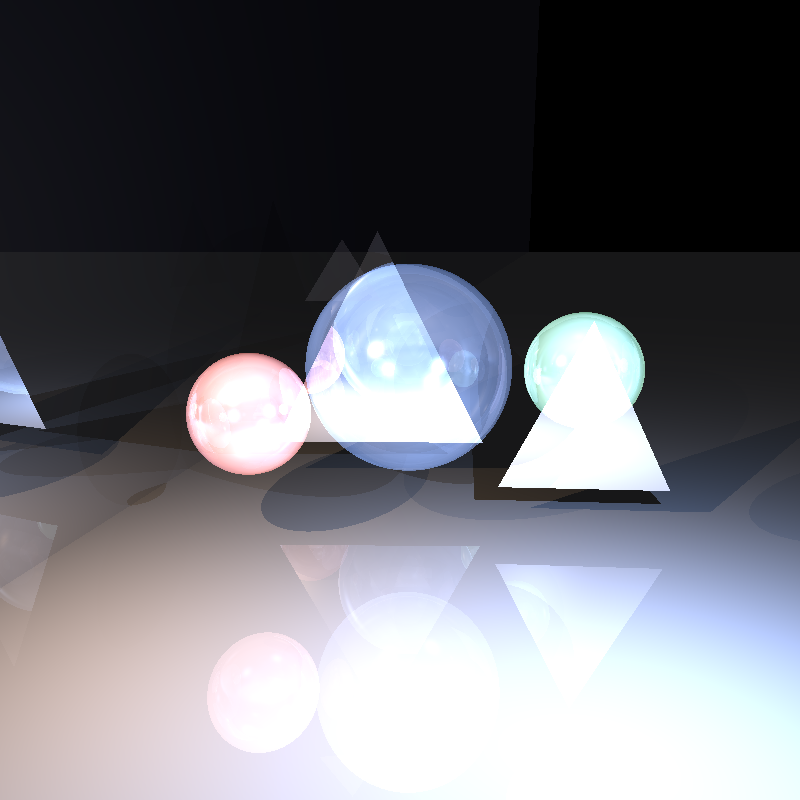
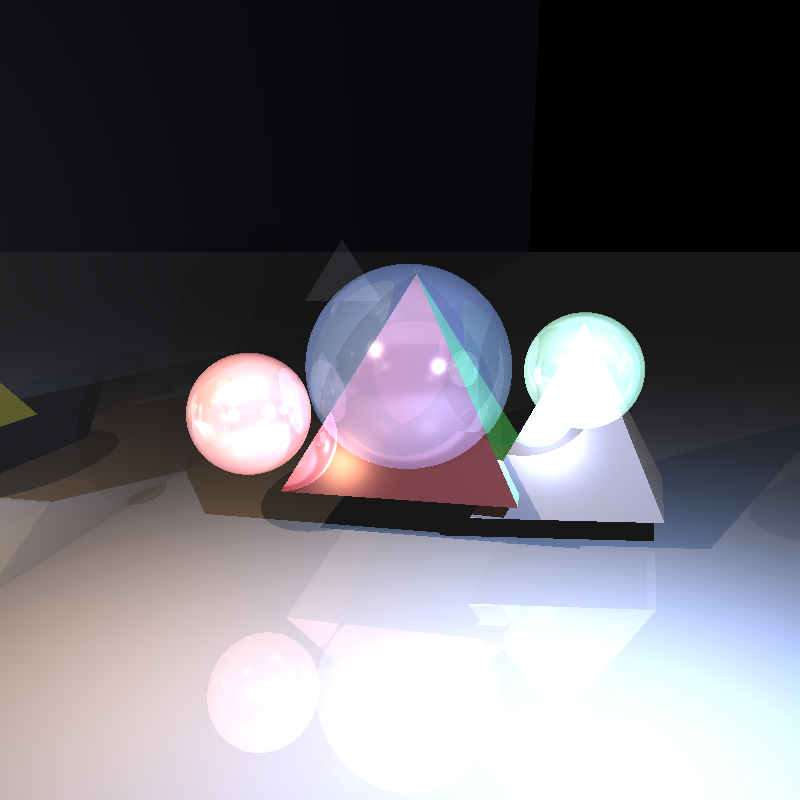
more good fotos

diff --git a/unittest/renderer/ReflectionRefractionTests.java b/unittest/renderer/ReflectionRefractionTests.java
@@ -111,6 +111,31 @@ class ReflectionRefractionTests {
    @Test
    void crystalConstellation() {
       // הוספת גאומטריות מרובות עם חומרים שונים
+
+      // פירמידה משופרת ראשונה - נקודות ברורות
+      Point basePoint1 = new Point(-50, -20, -150); // קדמי שמאלי
+      Point basePoint2 = new Point(50, -20, -150);  // קדמי ימני
+      Point basePoint3 = new Point(50, -20, -50);   // אחורי ימני
+      Point basePoint4 = new Point(-50, -20, -50);  // אחורי שמאלי
+      Point apexPoint = new Point(0, 70, -100);     // קודקוד הפירמידה
+
+      // חומר מראה לפירמידה הראשונה
+      Material mirrorMaterial = new Material()
+              .setKD(0.1).setKS(0.9).setShininess(200)
+              .setKR(0.9);
+
+      // פירמידה שנייה (ברונזה) - נקודות ברורות
+      Point bronzeBase1 = new Point(40, -30, -120);  // קדמי שמאלי
+      Point bronzeBase2 = new Point(120, -30, -130); // קדמי ימני
+      Point bronzeBase3 = new Point(110, -30, -70);  // אחורי ימני
+      Point bronzeBase4 = new Point(30, -30, -60);   // אחורי שמאלי
+      Point bronzeApex = new Point(75, 50, -95);     // קודקוד הפירמידה
+
+      // חומר ברונזה לפירמידה השנייה
+      Material bronzeMaterial = new Material()
+              .setKD(0.4).setKS(0.6).setShininess(80)
+              .setKR(0.6);
+
       scene.geometries.add(
               // כדור קריסטל מרכזי שקוף עם השתקפויות
               new Sphere(45d, new Point(0, 30, -80))
@@ -133,24 +158,65 @@ class ReflectionRefractionTests {
                               .setKD(0.25).setKS(0.75).setShininess(110)
                               .setKT(0.75).setKR(0.25)),
 
-              // משולש מראה גדול ליצירת השתקפויות
-              new Triangle(
-                      new Point(-80, -20, -120),
-                      new Point(30, -20, -140),
-                      new Point(-25, 90, -130))
-                      .setMaterial(new Material()
-                              .setKD(0.1).setKS(0.9).setShininess(200)
-                              .setKR(0.9)),
+              // פירמידת מראה ראשונה
+              // פאה קדמית
+              new Triangle(basePoint1, basePoint2, apexPoint)
+                      .setEmission(new Color(20, 20, 80)) // צבע כחול-אפור
+                      .setMaterial(mirrorMaterial),
 
-              // משולש ברונזה עם מאפיינים מתכתיים
-              new Triangle(
-                      new Point(40, -30, -100),
-                      new Point(120, -30, -110),
-                      new Point(80, 50, -105))
-                      .setEmission(new Color(30, 20, 10))
-                      .setMaterial(new Material()
-                              .setKD(0.4).setKS(0.6).setShininess(80)
-                              .setKR(0.6)),
+              // פאה ימנית
+              new Triangle(basePoint2, basePoint3, apexPoint)
+                      .setEmission(new Color(20, 80, 20)) // צבע ירוק-אפור
+                      .setMaterial(mirrorMaterial),
+
+              // פאה אחורית
+              new Triangle(basePoint3, basePoint4, apexPoint)
+                      .setEmission(new Color(80, 20, 20)) // צבע אדום-אפור
+                      .setMaterial(mirrorMaterial),
+
+              // פאה שמאלית
+              new Triangle(basePoint4, basePoint1, apexPoint)
+                      .setEmission(new Color(80, 80, 20)) // צבע צהוב-אפור
+                      .setMaterial(mirrorMaterial),
+
+              // בסיס (מורכב משני משולשים)
+              new Triangle(basePoint1, basePoint2, basePoint3)
+                      .setEmission(new Color(40, 40, 40)) // צבע אפור כהה
+                      .setMaterial(mirrorMaterial),
+
+              new Triangle(basePoint1, basePoint3, basePoint4)
+                      .setEmission(new Color(40, 40, 40)) // צבע אפור כהה
+                      .setMaterial(mirrorMaterial),
+
+              // פירמידת ברונזה (במקום המשולש הברונזה)
+              // פאה קדמית
+              new Triangle(bronzeBase1, bronzeBase2, bronzeApex)
+                      .setEmission(new Color(35, 22, 10)) // ברונזה כהה
+                      .setMaterial(bronzeMaterial),
+
+              // פאה ימנית
+              new Triangle(bronzeBase2, bronzeBase3, bronzeApex)
+                      .setEmission(new Color(30, 20, 10)) // ברונזה רגילה
+                      .setMaterial(bronzeMaterial),
+
+              // פאה אחורית
+              new Triangle(bronzeBase3, bronzeBase4, bronzeApex)
+                      .setEmission(new Color(38, 25, 13)) // ברונזה בהירה
+                      .setMaterial(bronzeMaterial),
+
+              // פאה שמאלית
+              new Triangle(bronzeBase4, bronzeBase1, bronzeApex)
+                      .setEmission(new Color(28, 18, 8)) // ברונזה כהה
+                      .setMaterial(bronzeMaterial),
+
+              // בסיס (מורכב משני משולשים)
+              new Triangle(bronzeBase1, bronzeBase2, bronzeBase3)
+                      .setEmission(new Color(25, 15, 5)) // ברונזה מאוד כהה
+                      .setMaterial(bronzeMaterial),
+
+              new Triangle(bronzeBase1, bronzeBase3, bronzeBase4)
+                      .setEmission(new Color(25, 15, 5)) // ברונזה מאוד כהה
+                      .setMaterial(bronzeMaterial),
 
               // משולש זכוכית שקוף
               new Triangle(
